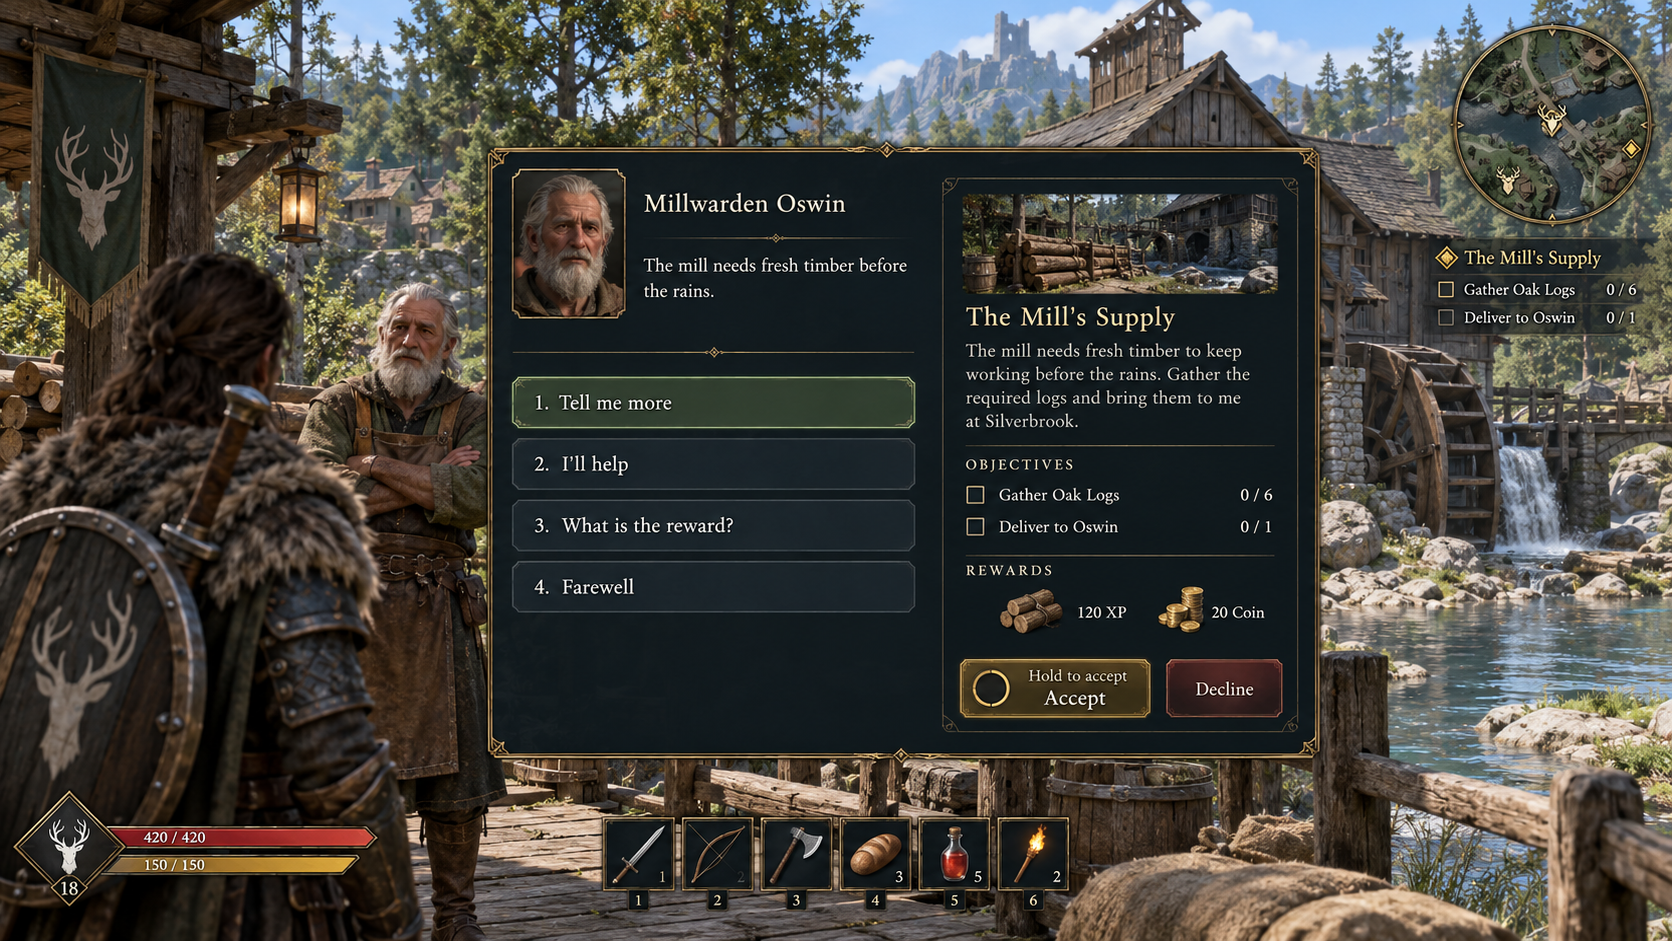
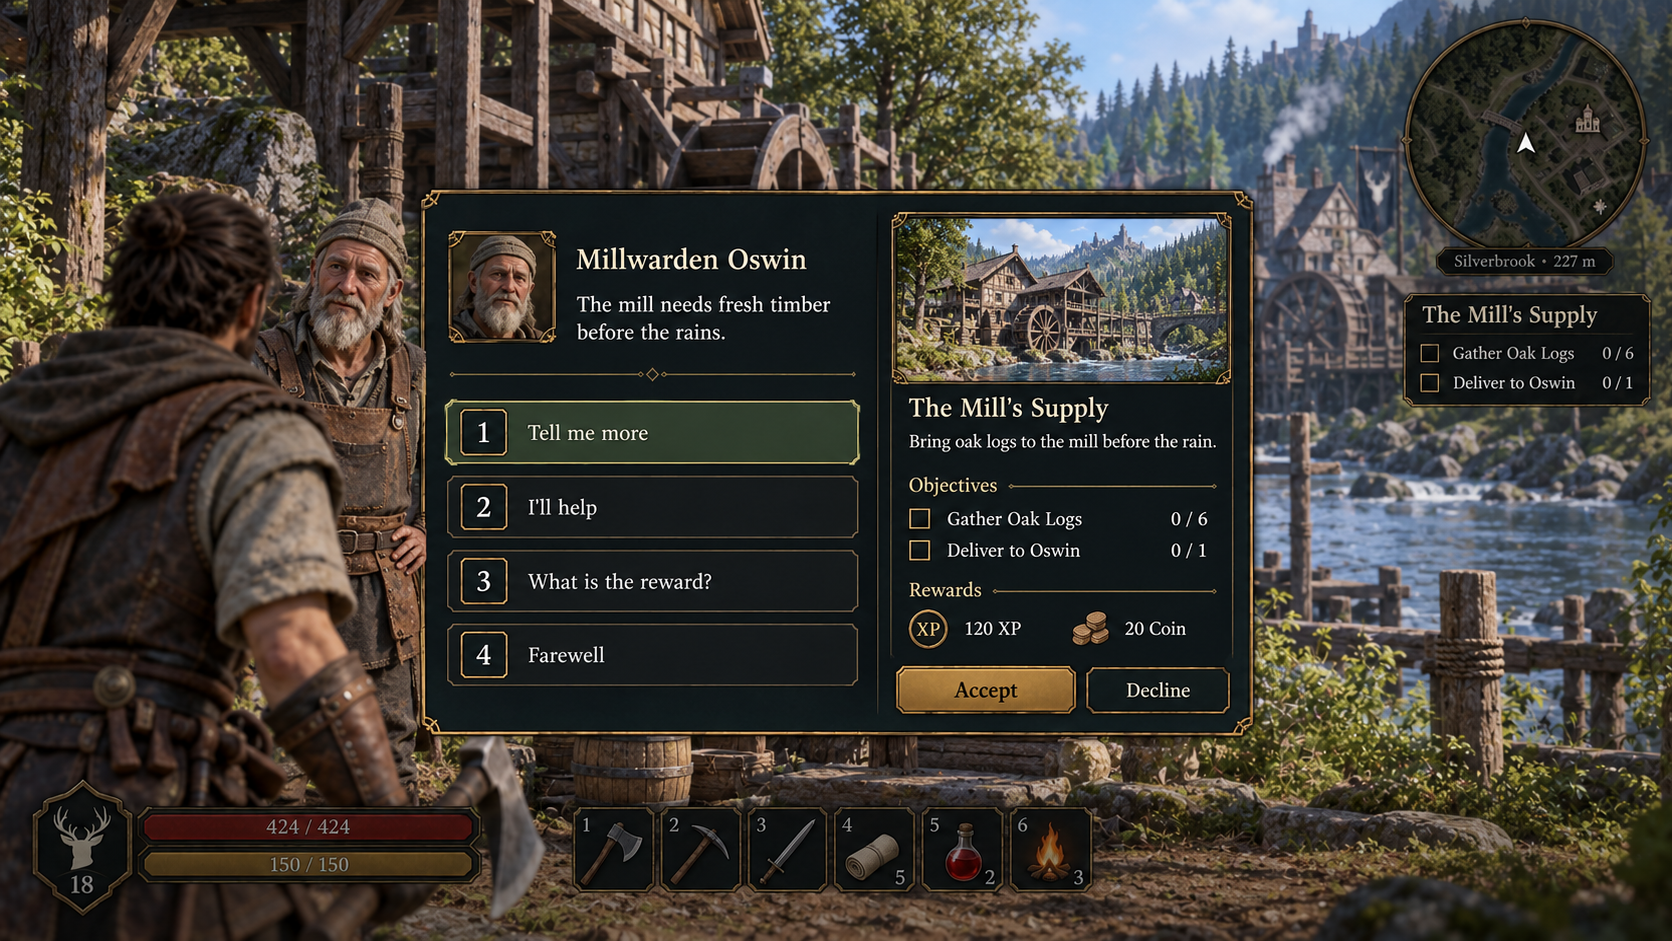
Regenerate v5 trade dialogue and creator UI concepts

diff --git a/docs/Game-Design/concept-art/UI/v5/prompts-C.md b/docs/Game-Design/concept-art/UI/v5/prompts-C.md
@@ -1,0 +1,26 @@
+# UI concept v5 — final regeneration prompts
+
+Each prompt below was submitted as written. `gameplay-hud.png` was supplied as the reference image for trade and NPC dialogue.
+
+## trade.png
+
+Use case: ui-mockup. Create exactly one 16:9 full-screen, front-on, flat in-game screenshot mockup for Legends: Shattered Frontier, a shipped-quality realistic fantasy survival MMO. Scene: daylight Greenlands forest near Silverbrook river town, third-person leather-and-cloth adventurer, natural detailed trees, mossy stone, timber buildings and river, credible AAA game rendering. Interface family: translucent deep slate-navy #17232A panels; thin aged-brass #A98A55 chamfered 9-slice frames with restrained fine engraving; warm ivory #E8E1CE type; moss #688267 state accents; crimson #A34842 health/danger; muted amber #B69A55 stamina/warnings; pale white stag emblem; fantasy serif headings and clean sans numerals. Crisp UI edges, consistent button and slot sizes, readable intentional type hierarchy, 2% safe inset on every edge. Canonical HUD positions: bottom-left at x2-27% y86-96% a hexagonal stag level badge "18", crimson HP bar "424 / 424" and amber stamina bar "150 / 150" with numbers inside the bars; bottom-center x33-67% y86-96% exactly six square numbered hotbar slots with the slot number small in the top-left corner inside each slot and the item count small in the bottom-right corner inside each slot, nothing printed above or below the slots; round north-up minimap x84-99% y2-24% with one-line footer "Silverbrook · 227 m"; quest tracker x84-99% y25-40% headed "Silverbrook" with three checkbox objectives; one narrow two-line icon toast x84-99% y42-50%. Buttons are brass 3-slice: primary filled brass, secondary brass outline on slate, destructive crimson outline; only irreversible actions carry a hold-to-confirm ring inside the button's left end. All text in quotation marks must appear exactly once, short and spelled correctly. No compass strip, top-left title, extra nav, chevrons, neon, cartoon, bloom, watermark, or concept-sheet frame.
+
+Direct player trade screen. The whole canonical HUD is dimmed 40% behind a centered window exactly x26-74% y14-78% on the dimmed forest. Title "Direct Trade" centered with small engraved flourishes. Two equal columns separated by a thin engraved divider, headed "You" with a small portrait on the left and "Elira" with a small portrait on the right. Each column: a 4x3 grid of square offer slots, the top row filled; You: "Iron Axe" x1, "Oak Planks" x20, "Healing Potion" x3, "River Herbs" x12; Elira: "Wolf Pelt" x4, "Venison" x8, "Mooncap" x6, "Iron Ingot" x10; counts bottom-right inside slots, names in small text beneath. Under each grid a field "Gold Offered" with coin glyph: You "120", Elira "80". Under the You column a brass outline toggle button in its pressed state showing a moss tick glyph and the label "Offer Locked" with a tiny hint "Press again to unlock". Under the Elira column a plain status plate, not a button, with an open padlock glyph and the text "Reviewing offer" in amber. Full-width line with amber warning triangle: "Review both offers before accepting." Footer row: left a secondary brass-outline button "Cancel Trade" with a small "Esc" key cap; right a large primary filled-brass button "Hold to Accept Trade" with a partial radial hold ring inside its left end. Nothing else inside the window.
+
+Final retry correction: reduce the trade window to about 80% of its current size and move it upward so its exact outer frame occupies x26-74%, y14-78%; leave visible forest between its bottom edge and the hotbar. Place a translucent black overlay across the entire canonical HUD, including minimap, quest tracker, toast, vitals, and hotbar, so all are 40% dimmer. Preserve the exact text and the Cancel Trade, Offer Locked, and Hold to Accept Trade controls.
+
+## 10-npc-dialogue.png
+
+Use case: ui-mockup. Create exactly one 16:9 full-screen, front-on, flat in-game screenshot mockup for Legends: Shattered Frontier, a shipped-quality realistic fantasy survival MMO. Scene: daylight Greenlands forest near Silverbrook river town, third-person leather-and-cloth adventurer, natural detailed trees, mossy stone, timber buildings and river, credible AAA game rendering. Interface family: translucent deep slate-navy #17232A panels; thin aged-brass #A98A55 chamfered 9-slice frames with restrained fine engraving; warm ivory #E8E1CE type; moss #688267 state accents; crimson #A34842 health/danger; muted amber #B69A55 stamina/warnings; pale white stag emblem; fantasy serif headings and clean sans numerals. Crisp UI edges, consistent button and slot sizes, readable intentional type hierarchy, 2% safe inset on every edge. Canonical HUD positions: bottom-left at x2-27% y86-96% a hexagonal stag level badge "18", crimson HP bar "424 / 424" and amber stamina bar "150 / 150" with numbers inside the bars; bottom-center x33-67% y86-96% exactly six square numbered hotbar slots with the slot number small in the top-left corner inside each slot and the item count small in the bottom-right corner inside each slot, nothing printed above or below the slots; round north-up minimap x84-99% y2-24% with one-line footer "Silverbrook · 227 m"; quest tracker x84-99% y25-40% headed "Silverbrook" with three checkbox objectives; one narrow two-line icon toast x84-99% y42-50%. Buttons are brass 3-slice: primary filled brass, secondary brass outline on slate, destructive crimson outline; only irreversible actions carry a hold-to-confirm ring inside the button's left end. All text in quotation marks must appear exactly once, short and spelled correctly. No compass strip, top-left title, extra nav, chevrons, neon, cartoon, bloom, watermark, or concept-sheet frame.
+
+NPC dialogue screen. Third-person conversation with friendly elderly Millwarden Oswin outside the Silverbrook watermill, river and timber buildings behind; the canonical HUD is dimmed 40% and the right column stays visible. Dialogue board exactly x26-74% y14-78%. Left half: 120 px square portrait of Oswin in a brass frame, name plate "Millwarden Oswin" in serif, then one speech line "The mill needs fresh timber before the rains." in ivory text serif, then an engraved divider, then four full-width response rows 56 px tall each with a small square key cap at the left holding the digit and the text beside it: "1" "Tell me more" (selected: moss tint fill with brass edge), "2" "I'll help", "3" "What is the reward?", "4" "Farewell". Right half: an inset quest offer card with a brass frame: small landscape image of the mill, title "The Mill's Supply", one summary line "Bring oak logs to the mill before the rain.", section label "Objectives" with two checkbox rows "Gather Oak Logs" "0 / 6" and "Deliver to Oswin" "0 / 1" counts right-aligned, section label "Rewards" with a round brass "XP" roundel and "120 XP", and a coin stack glyph and "20 Coin". Card footer: primary filled-brass button "Accept" with no ring, and a secondary brass-outline button "Decline"; no other words on the buttons. Quest tracker in the right column shows only "The Mill's Supply" with the same two objectives. Single clear hierarchy, no overlapping or repeated text.
+
+Final retry correction: compose the full dialogue board higher and shorter, with its exact outer frame x26-74%, y14-78% of the full image and clear empty gap before the hotbar. Shrink portrait, art, and row spacing as needed; keep all four responses and every quoted word. Put a translucent 40% black overlay over the entire persistent HUD, including minimap, quest tracker, toast, vitals, and hotbar. The Accept button has one label and no ring.
+
+## 13-character-creator.png
+
+Use case: ui-mockup. Create exactly one 16:9 full-screen, front-on, flat in-game screenshot mockup for Legends: Shattered Frontier, a shipped-quality realistic fantasy survival MMO. Scene: daylight Greenlands forest near Silverbrook river town, third-person leather-and-cloth adventurer, natural detailed trees, mossy stone, timber buildings and river, credible AAA game rendering. Interface family: translucent deep slate-navy #17232A panels; thin aged-brass #A98A55 chamfered 9-slice frames with restrained fine engraving; warm ivory #E8E1CE type; moss #688267 state accents; crimson #A34842 health/danger; muted amber #B69A55 stamina/warnings; pale white stag emblem; fantasy serif headings and clean sans numerals. Crisp UI edges, consistent button and slot sizes, readable intentional type hierarchy, 2% safe inset on every edge. Canonical HUD positions: bottom-left at x2-27% y86-96% a hexagonal stag level badge "18", crimson HP bar "424 / 424" and amber stamina bar "150 / 150" with numbers inside the bars; bottom-center x33-67% y86-96% exactly six square numbered hotbar slots with the slot number small in the top-left corner inside each slot and the item count small in the bottom-right corner inside each slot, nothing printed above or below the slots; round north-up minimap x84-99% y2-24% with one-line footer "Silverbrook · 227 m"; quest tracker x84-99% y25-40% headed "Silverbrook" with three checkbox objectives; one narrow two-line icon toast x84-99% y42-50%. Buttons are brass 3-slice: primary filled brass, secondary brass outline on slate, destructive crimson outline; only irreversible actions carry a hold-to-confirm ring inside the button's left end. All text in quotation marks must appear exactly once, short and spelled correctly. No compass strip, top-left title, extra nav, chevrons, neon, cartoon, bloom, watermark, or concept-sheet frame.
+
+Character creator screen, no gameplay HUD. Realistic human woman standing full height at center on a Greenlands river clearing with Silverbrook in the distance; generous space around her. Left step rail panel exactly x2-14% y8-92% with slate fill and brass frame, heading "Create", then seven 64 px rows each with a glyph and label: "People" (active: moss tint fill with brass edge), "Body", "Face", "Hair", "Skin", "Outfit", "Name"; small "LB" cap above the first row and "RB" cap below the last. Right panel exactly x66-98% y8-92%, heading "People". Three portrait preset cards in a row with labels beneath "Valefolk" (selected: brass edge plus moss tick roundel), "Northkin", "Seaborn". One line of ivory text under the cards: "Valley farmers and river traders of the Greenlands." Then two labelled sliders with brass thumbs and value fields: "Height" "172 cm" and "Build" "Average". Nothing else in the panel body: no skin swatches, no hair thumbnails. Panel footer: hint row "Drag to rotate · Scroll to zoom" with mouse glyphs and "RS Rotate" with a right-stick glyph; buttons "Randomize" (brass outline), "Back" (brass outline), "Next" (primary filled brass). Bottom-center under the character a thin plate "Step 1 of 7".
+
